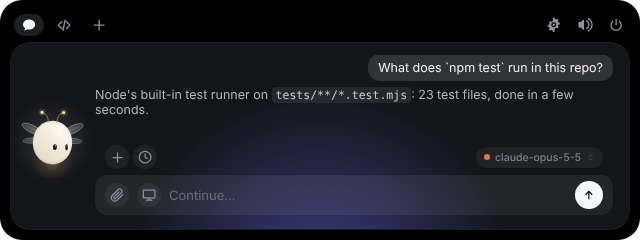
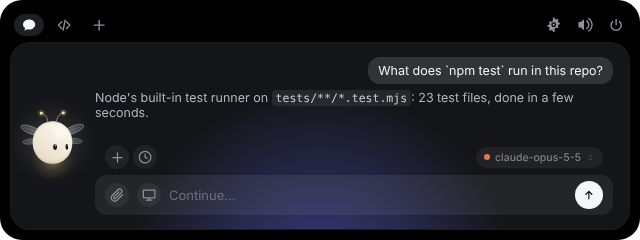
Chat: an answer's Copy floats over its corner instead of taking a line
The reserved line under every answer pushed the chat 3 px too tall and
cut the top of the first question. Only a stopped answer keeps its own
line, for the Stopped label.

Claude-Session: https://claude.ai/code/session_01JzuvwNPHVWWtcdiLiLwArt

diff --git a/windows/src/views/chat.ts b/windows/src/views/chat.ts
@@ -123,12 +123,11 @@ function bubble(message: ChatMessage, opts: BubbleOptions = {}): HTMLElement {
   }
   const reply = h("div", { class: "reply" });
   renderMarkdown(reply, message.content);
-  const foot = h(
-    "div",
-    { class: "reply-foot" },
-    message.stopped ? h("span", { class: "msg-stopped", text: tl(STRINGS.stopped) }) : null,
-    actions,
-  );
+  // A stopped answer says so on a line of its own, Copy beside it; otherwise
+  // Copy floats over the answer's bottom right corner and takes no room.
+  const foot = message.stopped
+    ? h("div", { class: "reply-foot" }, h("span", { class: "msg-stopped", text: tl(STRINGS.stopped) }), actions)
+    : h("div", { class: "reply-foot floating" }, actions);
   return h("div", { class: `chat-row${state}` }, h("div", { class: "reply-wrap" }, reply, foot));
 }
 

diff --git a/windows/src/style.css b/windows/src/style.css
@@ -1762,6 +1762,7 @@ input[type="range"]::-webkit-slider-thumb {
 }
 
 .reply-wrap {
+  position: relative;
   display: flex;
   flex-direction: column;
   gap: 2px;
@@ -1773,6 +1774,18 @@ input[type="range"]::-webkit-slider-thumb {
   align-items: center;
   gap: 6px;
   min-height: 18px;
+}
+
+.reply-foot.floating {
+  position: absolute;
+  right: 0;
+  bottom: 0;
+  min-height: 0;
+  border-radius: 5px;
+}
+
+.chat-row:hover .reply-foot.floating {
+  background: rgba(24, 25, 28, 0.92);
 }
 
 .msg-stopped {
